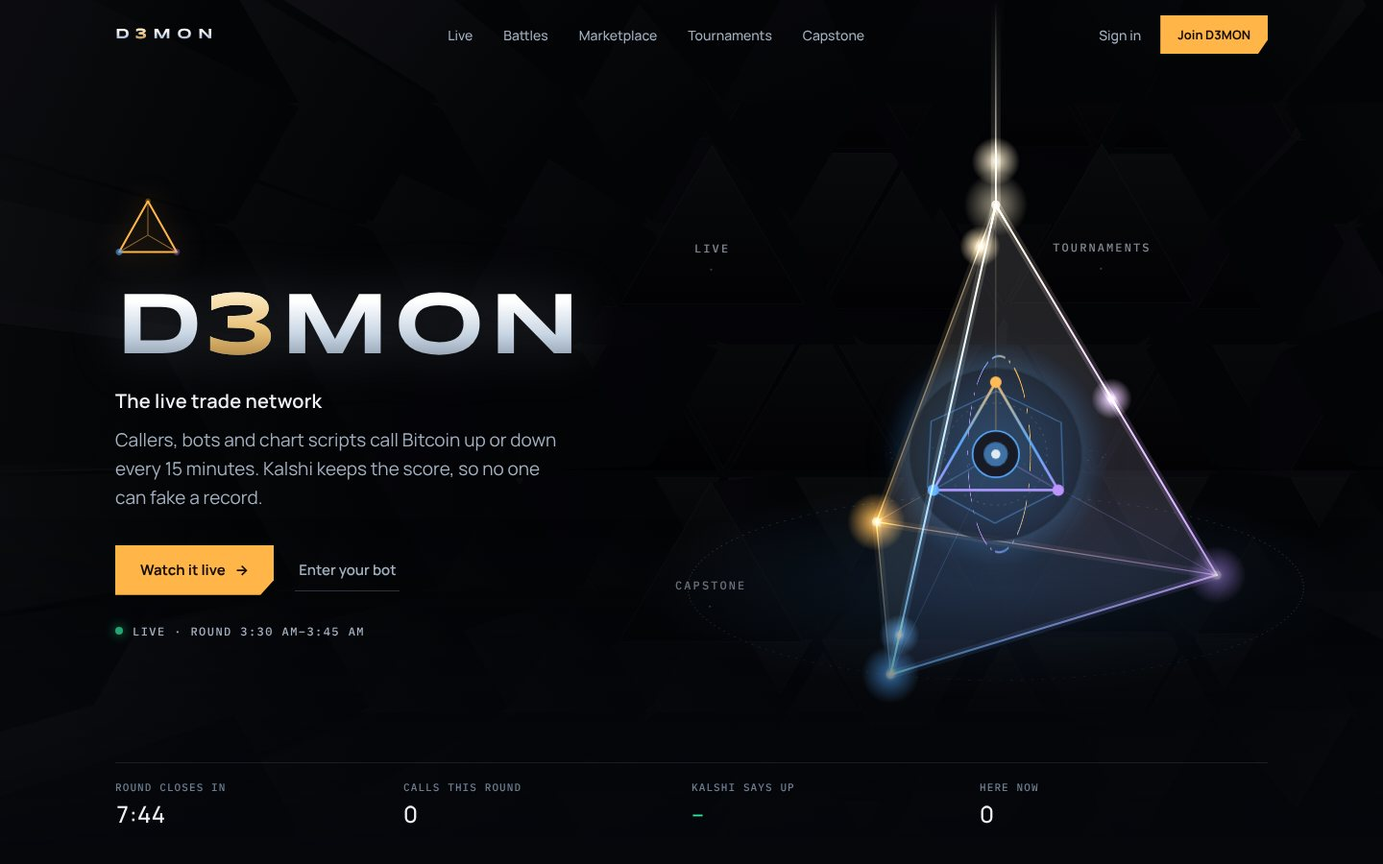
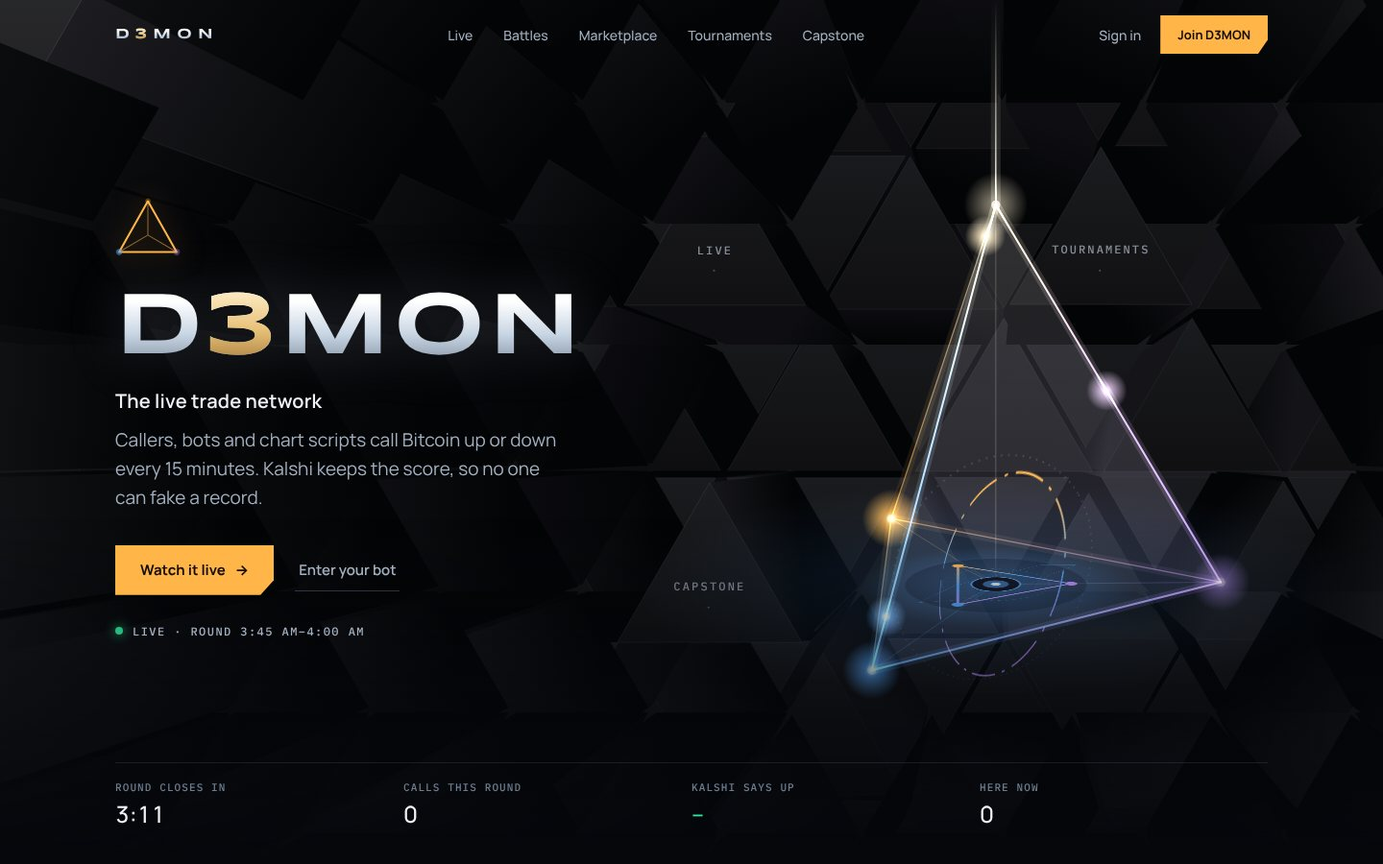
/next: bring back the bright interactive wall; the Flower of Life on the profile page
The wall of blocks is lit as it was before (it had been darkened to near black by a
misreading), dimming only a little toward the pyramid. The profile page, the one page
with a plain black background, now shows the site's faint Flower of Life like the others.

Claude-Session: https://claude.ai/code/session_014SvgFLPymcNibG8zpDTguD

diff --git a/public/js/next.js b/public/js/next.js
@@ -59,7 +59,7 @@
       if (!reduce) { sx += ((mx > -1e3 ? (mx - vx) * -0.04 : 0) - sx) * 0.05; sy += ((my > -1e3 ? (my - vy) * -0.04 : 0) - sy) * 0.05; }
       const intro = reduce ? 1 : Math.min(1, tt / 2.2), io = 1 - (1 - intro) ** 3; // on arrival the blocks slide forward out of the dark
       for (const t of tiles) {
-        const breathe = reduce ? 0 : 8 * Math.sin(tt * t.f + t.p);
+        const breathe = reduce ? 0 : 18 * Math.sin(tt * t.f + t.p);
         const d = Math.hypot(t.cx - mx, t.cy - my), near = Math.max(0, 1 - d / R), push = near * near * (3 - 2 * near) * 110;
         let ring = 0;
         for (const w of waves) { const rr = (tt - w.t) * 700, gap = Math.abs(Math.hypot(t.cx - w.x, t.cy - w.y) - rr); ring = Math.max(ring, Math.max(0, 1 - gap / 120) * (1 - (tt - w.t) / 2.6)); }
@@ -79,8 +79,8 @@
           if (nx * (mxm - t.cx) + ny * (mym - t.cy) < 0) { nx = -nx; ny = -ny; } // the side's outward direction
           if (nx * (ox - mxm) + ny * (oy - mym) <= 0) continue;
           const nl = Math.hypot(nx, ny), up = Math.max(0, -ny / nl);
-          const l = (9 + 13 * up + 8 * depth) * (1 - 0.6 * t.calm) * (0.3 + 0.7 * t.k);
-          const warm = t.near * 18;
+          const l = (16 + 22 * up + 14 * depth) * (1 - 0.6 * t.calm) * (0.7 + 0.3 * t.k);
+          const warm = t.near * 26;
           const grd = g.createLinearGradient(...front[m], ...back[m]);
           grd.addColorStop(0, `rgb(${Math.round(l + warm)},${Math.round(l + warm * 0.75)},${Math.round(l + 4 + warm * 0.35)})`); grd.addColorStop(1, "rgb(3,4,6)");
           g.fillStyle = grd;
@@ -88,11 +88,11 @@
         }
         // the face: matte black, a touch lighter at the top, a faint rim, gold where the pointer is near
         const top = Math.min(front[0][1], front[1][1], front[2][1]), bot = Math.max(front[0][1], front[1][1], front[2][1]);
-        const lf = Math.round((15 + 7 * depth) * (1 - 0.55 * t.calm) * (0.35 + 0.65 * t.k)), fg = g.createLinearGradient(0, top, 0, bot);
-        fg.addColorStop(0, `rgb(${lf + 3},${lf + 4},${lf + 6})`); fg.addColorStop(1, `rgb(${Math.max(0, lf - 4)},${Math.max(0, lf - 4)},${Math.max(0, lf - 2)})`);
+        const lf = Math.round((28 + 12 * depth) * (1 - 0.55 * t.calm) * (0.7 + 0.3 * t.k)), fg = g.createLinearGradient(0, top, 0, bot);
+        fg.addColorStop(0, `rgb(${lf + 5},${lf + 6},${lf + 9})`); fg.addColorStop(1, `rgb(${lf - 5},${lf - 5},${lf - 3})`);
         g.fillStyle = fg;
         g.beginPath(); g.moveTo(...front[0]); g.lineTo(...front[1]); g.lineTo(...front[2]); g.closePath(); g.fill();
-        g.strokeStyle = t.near > 0.05 ? `rgba(233,194,122,${(0.06 + 0.4 * t.near).toFixed(3)})` : `rgba(190,205,230,${((0.025 + 0.035 * depth) * (1 - 0.6 * t.calm)).toFixed(3)})`;
+        g.strokeStyle = t.near > 0.05 ? `rgba(233,194,122,${(0.06 + 0.4 * t.near).toFixed(3)})` : `rgba(190,205,230,${((0.06 + 0.08 * depth) * (1 - 0.6 * t.calm)).toFixed(3)})`;
         g.lineWidth = 1; g.stroke();
         t.front = front;
       }

diff --git a/public/css/world.css b/public/css/world.css
@@ -340,7 +340,8 @@ body[data-three="on"] .w-events{order:-1}
 /* ---------- the cinematic profile (/profile?e=<slug>, docs/world/BLUEPRINT.md section 7) ----------
    "I am NAME." in the kind's colour (--kc, set by profile.js), the generated emblem, corner brackets and HUD
    labels, the tagline in a glass card, then the record and the recent calls. */
-.w-prof{background:radial-gradient(120% 80% at 75% 35%,color-mix(in srgb,var(--kc,#4DA3FF) 22%,#05080c) 0%,#05080c 60%) fixed,#05080c}
+/* the profile keeps the site's Flower of Life (--fol, d3mon.css) faintly over its glow, like every other page */
+.w-prof{background:var(--fol) 0 0/52px 90px fixed,radial-gradient(120% 80% at 75% 35%,color-mix(in srgb,var(--kc,#4DA3FF) 22%,#05080c) 0%,#05080c 60%) fixed,#05080c}
 .p-main{max-width:1180px;margin:0 auto;padding:0 24px 60px}
 .p-hero{position:relative;min-height:calc(100vh - 80px);display:grid;align-items:center;grid-template-columns:minmax(0,1fr) minmax(0,1fr)}
 .p-emblem{grid-column:2;grid-row:1;justify-self:center;width:min(42vw,560px);aspect-ratio:1;opacity:.95;filter:drop-shadow(0 0 30px color-mix(in srgb,var(--kc,#4DA3FF) 35%,transparent))}

diff --git a/CLAUDE.md b/CLAUDE.md
@@ -121,7 +121,7 @@ npm run kalshi:check   # reads Kalshi's latest rounds and shows how each is scor
 - [ ] **New direction (owner, 2026-10-17): automatic, always-on tournaments**, hourly, daily, weekly and monthly at once, for opted-in bots and scripts, scored from Kalshi. Owner agreed: D3MON never trades, tournaments rank entrants (reverses "no leaderboard" for tournaments only), a "not financial advice" notice, opt-in per bot. The owner dropped the hosted HardSmoke show; battle code stays, unused, until the owner decides to remove it. Plan and build steps: [`docs/TOURNAMENTS.md`](docs/TOURNAMENTS.md). Step 1 done: the "Join tournaments" switch (`server/arena/tournaments.js`, `test/tournaments.test.js`). Step 2 done: joining D3MON without a battle (`registry.join`, `POST /api/v1/applications`). Step 3 done: standings (`GET /api/v1/tournaments`, `GET /api/v1/tournaments/:id`). Step 4 done: the `/tournaments` page and the `tournaments` feed topic. Step 5a done: saved final results (`tournament_final` lines, `Tournaments.finalizeDue`). Step 5b done: admin controls (remove a bot, pause all). **All 5 steps of the plan are built.**
   This simplifies the 3D Grand Hall into a live trading floor (see `docs/world/`).
 - [ ] **D3MON World (3D redesign):** planning in [`docs/world/`](docs/world/README.md). **Building since 2026-10-18:** `/world` (`public/world.html`, `js/world.js`, `css/world.css`) is the 2D version with the new top bar (Join D3MON, Menu, Admin, account, Quality) and the four places on live data; `GET /api/v1/rounds/:round/calls` feeds this round's calls. Device levels: Auto starts at Lite and drops to 2D for reduce motion, data saver, low memory, few cores, no WebGL or software WebGL; the choice is in `localStorage` `d3w.quality`. **3D outside done** (`public/js/world3d.js`, three.js 0.169.0 vendored in `public/vendor/` with its README and licence): loaded with a dynamic `import()` only when the level isn't 2D, so 2D never downloads it; scrolling Outside drives the opening: the overhead D3MON title, the triangle rising into the pyramid, the opening shot, the front-face stargate. **The skull, stargate dive and swarm-of-lights opening was tried and dropped (owner, 2026-10-18: "go back to that version"); it's in git history (`a9160b6`, `b029b77`) if wanted again.** The look follows the owner's concept board `docs/world/inspiration/05-grand-hall-concepts.webp`: **clear glass walls with panel seams, and inside them the trading floor**: a glass walkway ring with railings, a ring of green/red up/down ticks, the calls streaming into a bright core, the golden beam up to the capstone, and glass screens with charts (made-up candles for now, live data later). **No stars** (owner doesn't like them). Owner, 2026-10-18 (later the same day): **random light beams** rising in the dark with pulses, and **comets** (random sizes, glowing trails) on tilted orbits around the pyramid, in the three colours and white; the floor is **the main page's own Flower of Life** (`--fol` from `d3mon.css`, same tile size from overhead) and forms outward from the pyramid on arrival; the glow around the pyramid fades out with no edge; **the upright stargate was removed** (owner: it had no use; it was tried on the front face and then in the centre); the scroll now ends by gliding through the front glass down to the bright core, with a burst of light. **The comets spiral in to the golden beam, ride it up through the capstone and out along a laser into the sky**; each one sends a pulse up the laser, and the sky flashes faintly as it goes high (owner, 2026-10-18). **Inside, from the 10118 video** (owner: "I like everything about this", leaving out the booths with people and the star shapes): two rings of glass chart screens, a glass ramp spiralling up around the beams with six hexagon bot pods, floating code and maths for the chart scripts near the top, the people online as little lights in the stands, and a violet beam beside the golden one. The scroll goes through the front glass, then glides up beside the ramp to the code near the top; up close the core's glow, the beams and the comets dim and shrink so they don't fill the screen. Later the same day (owner): **the comets fly into the three corners of the triangle (taking that corner's colour), run along the floor to the centre, then climb the beam**; the helix is one clean, wider glass ramp (no rails or ties) with lights walking up it, the screens are bigger and kept inside it, and **it ends level at the VIP Room**, a round gold glass room under the capstone with the featured callers as three gold lights; **the scroll ends looking at the VIP Room**. Behind the 2D sections below, the 3D dims to 12% with a blur so they read cleanly. Then (owner): a tasteful mix of comets, fewer in all: about 40% just circle the pyramid on slow tilted orbits (the circling the owner liked) and the rest circle in to a corner, run the floor and climb the beam; fewer random beams. **The VIP Room is the crystal capstone: the whole tip of the pyramid** above a gold landing, built from the pyramid's own corners so it's straight and lines up, glowing brighter toward the top, with the featured callers as three gold lights; no screens up there (owner: cleaner). **The helix levels off and runs onto a full landing ring** round the foot of the crystal, in the helix's own blue right through (owner, 2026-10-19). Fewer, bigger screens below (4 + 3 charts, 1 code, 1 maths). **At the top of the helix the camera rides the centre beam up under the crystal, then pulls out through the front glass: the scroll ends on a hero view of the whole crystal tip.** Screens face the camera's path and text is one-sided, so nothing reads mirrored. **The owner's vision for navigation (2026-10-18): move through the whole site like this, gliding along structures (the helix, the beam as a lift) from place to place, rather than jumping between pages. Keep it in mind for every place we build.** No glow pass in this version (the add-ons stay vendored in `public/vendor/three-addons-0.169.0/` for later); the camera never spins or rolls, and reduce motion cuts between shots; Auto drops to 2D if the first seconds run slower than about 22 fps (`sessionStorage` `d3w.slow`). **The Grand Hall goes live (2026-10-18, BLUEPRINT step 4 begun):** remember what it's for (owner): the everyday trading room where everyone trades daily, with the tournaments, the round clock, every call live, special-event battles, the D3MON Discord as its chat and voice, and video streams on the walls. Its four live screens form a curved wall facing the way in (the camera stops in front of them): **last round** (Kalshi's result, right and wrong, the best paper result), **this round** (clock to the second, each call with its price, callers sealed), **tournament** (top 6, "not financial advice") and **D3MON Discord** (kept for the chat and voice, "coming soon"). The ring of ticks is the round clock (the last 72 rounds, green up, red down, the round now in white) and the 9 spokes are this round's calls (the entrant's colour at the end, the line green or red by direction, white while sealed). `world.js` hands the data over with `scene3d.hall(...)` after each load and reloads every 20 s. **Look around (owner, 2026-10-19):** the camera now holds at each level of screens (the hall's live screens at scroll 0.70–0.77, the level above at 0.83–0.89); while it's held, ◀ ▶ buttons (and the arrow keys, and a sideways swipe) turn that level's ring of screens one screen at a time, so each comes round to face the visitor. The camera never turns. Live screens are solid (normal blending) so the beam behind doesn't wash out the text. **Three levels now (owner, 2026-10-19):** level 1 the hall's live screens (0.70–0.77), level 2 (0.81–0.86) a turning ring of a chart, the **top chart scripts** (from the tournament), **bring your script** and a script's code, and **level 3 at the very top (0.89–0.93) is one screen that comes up centred: "Where to next?"** (VIP Room, which glides the scroll up to the crystal; Tournaments; every bot, script and caller; My bots; Join D3MON), picked by pointing and clicking on the screen (a raycast finds the line) or with the up/down keys and Enter. **Dragging with the mouse turns a level's ring** and it settles on the nearest screen when let go; ◀ ▶, the arrow keys and swipes still work. After the menu the camera goes through the glass into the beam lift, then out to the crystal tip. **The hall's circle is complete (owner, 2026-10-19: "do what you think is best"):** ten screens all the way round, turning freely: last round, this round, tournament, D3MON Discord, plus **two spotlights** (each cycles through the bots and scripts every 12 s: maker, today's record, this round's call and price, last round's paper result), **live event** (a special-event battle while it's on, with "its live stream plays here" kept for streams, or the next event), **Kalshi now** (Up and Down prices this round from the new public `GET /api/v1/market`, "the crowd gives Up a 62% chance"), **this hour** (the hourly tournament) and **callers** (how many called this round, sealed, and last round's right and wrong). `world.js` fetches the market, battles and hourly standings only when the 3D scene is running. **The hall reacts to what really happens (owner, 2026-10-19):** every new call (seen in the 20 s reload) flies in as a bigger, quicker comet in its entrant's colour (white while a caller's is sealed) to its own corner of the triangle (callers, bots, scripts), runs the floor and climbs the beam; on opening, the last few calls fly in too. When a round's result arrives, a ring of green (up) or red (down) draws in to the core, then one pulse of that colour rides up the centre beam and out of the capstone along the laser (owner, 2026-10-19: clean, nothing running outward); a result already in when the page opened isn't replayed. **The main page's Live Trade Cortex emblem is at the heart of the pyramid** (owner, 2026-10-19): the same drawing as `.sigil.gim` in `index.html`, layer for layer, with the same movements as `d3mon.css` (rings tumbling 14 s round X, 11 s round Y, 8 s back round X, each spinning in its plane 30 s, 16 s back, 10 s; the inner dashed ring 22 s back, the triangle 40 s, the heart pulsing 2.4 s). It lies flat on the floor at the foot of the beam (owner, 2026-10-19: so from the top it stays as it is on the main page), facing up with its triangle's corners toward the pyramid's, its lines glowing, its rings tumbling up out of the floor and the beam rising from its heart; it's the main page's size over the flat triangle and settles just inside the ring of ticks. **Calmer and fuller (owner, 2026-10-19):** the middle level is a full circle of eight screens like the hall's (chart, top chart scripts, scripts this round, scripts last round, bring your script, code, another chart, maths); the ambient comets and edge dots are fewer, smaller and dimmer, and each ambient comet rests 2–8 s between flights, while real calls stay big and bright. The little lights in the stands (the people online) were removed too (owner: they looked messy). The hexagon pods on the helix were removed (owner: cleaner); stops for navigation can go on the helix later, once the places they lead to are rooms in the world. **The lock moment** (BLUEPRINT section 5, 2026-10-19): in a round's last 10 s the hall dims and the This round screen counts down big ("Calls close"); at the close the emblem and core flash, and for 6 s the spokes hold the round that just closed with its sealed calls flipped to green or red; `world.js` reloads 1.5 s after each close for the revealed calls and 11 s later for Kalshi's result, which brings the pulse up the beam. Reduce motion gets the flip without the dimming or flash. No sound yet. `?fps` also exposes the scene as `window.__w3d` for testing by hand. Next for the hall: the D3MON Discord chat, video streams on the walls. Read it before any `/world` work; open decisions are in `docs/world/QUESTIONS.md`. **The site map** (`docs/world/SITEMAP.md`, 2026-10-18) lists every page and section, who uses it and where it goes (Outside, Grand Hall = tournaments, Helix, Trade Floor, My D3MON, one admin hub); follow it for the tidy-up
-- [ ] **New direction (owner, 2026-10-20): no more "everything in the triangle".** The scroll-through-the-pyramid world is too much (camera flights, rings of screens, the floating menu). Build **a clean website in the new style** (glass panels, chrome D3MON with the gold 3, Syncopate, Manrope, IBM Plex Mono) organised by **its main parts**: Live (this round, calls, chat), Battles (HardSmoke's events), Tournaments, Marketplace (profiles, "Get this bot"), Capstone (VIP sessions) and My D3MON. Each part can have its own feel within one style, joined by **good transitions** (sections sliding or fading in, cards expanding into pages), with **3D only as a highlight** where it pays off (e.g. the front page, a battle going live). The pyramid can appear but **doesn't have to tie everything together**. **Clarified (owner, 2026-10-20): the owner likes the triangle's look and its symbolism** (three corners: callers, bots, chart scripts, meeting in one place); **what goes is the helix with all the screens inside the pyramid.** Keep the triangle as the brand symbol (e.g. the particle triangle on `/next`, a clean glass pyramid without the inside as a hero), just not as the site's navigation Don't build more of the 3D world (`world3d.js`); keep it in git. Ask the owner which part to start with. **`/next` finished in the hero's style (2026-10-20):** every part uses the chrome Syncopate titles, a mono kicker with a small three-colour triangle, one amber button with the cut corner (gold for Capstone), underlined links for the rest, and cards with the same cut corner; a Menu button on phones; an honest empty state when no battle is announced. **No particles** (owner, 2026-10-20: "the dots make it look messy"; "clean and luxurious"). **The hero's wall** (owner liked Rubric's big black geometric tiles moving with the mouse, and asked for something of D3MON's own): big plain, dark black triangular blocks with deep sides (kept dark and calm, owner 2026-10-20: "keep them to the darker, more plain black"), whose depth shows mostly near the pointer, in perspective, forming a tunnel that opens around the glass pyramid; each breathes slowly, the ones near the pointer push out on a spring (edges catching gold), a click sends a push rippling through, and blocks behind the words stay back and dark. **Three blocks are shortcuts** (wide screens only): Live, Tournaments and Capstone, engraved on the block, standing a little forward, gold with an arrow on hover; a click goes through the page transition (`LINKS` in `js/next.js`, placed where they appear on screen, clear of the words and the pyramid). **The glass pyramid is drawn live** (owner, 2026-10-20: the still picture "just sits there"; "make it rotate"; keep the main page's rotating emblem): a three-sided glass pyramid turns slowly (40 s a turn) on two canvases (`pyramid()` in `js/next.js`), corners amber (callers), blue (bots) and violet (chart scripts) with a gold tip, each side tinted between its corners with a sheen as it turns to the light, lights rising from each corner up its edge to the tip and pulses up the beam; **the main page's Live Trade Cortex emblem (`.sigil.gim`) lies flat on the pyramid's floor** (owner, 2026-10-20), seen at the pyramid's tilt, its triangle pointing at the pyramid's corners and turning with them, small enough that its outer ring sits inside the floor (owner: the rings stay within the triangle), its rings keeping the main page's movements and tumbling within the glass; it sits between the far canvas and the near one, with no glow filter (that would flatten the rings). **The sacred geometry is back** (owner, 2026-10-20: "I miss the sacred geometry"; "more interactive and 3D, hints here and there"): the original site's Flower of Life on a fixed canvas behind the sections (`geometry()`), faint everywhere, lit in the three colours around the pointer like a lamp (it drifts by itself on touch screens or after 4 s), a click sends a ring of light through it, and it drifts with the scroll. **Hints of 3D** (`touches()`, pointer devices only): cards lean toward the pointer with a soft glare, the amber buttons are drawn to it, section titles catch a chrome shine as they arrive and the kicker triangles turn over. Reduce motion keeps all of it still. Pictures and a clip for the owner's image and video tools are in `docs/next/inspiration/`. Drag to spin it (it eases back), the pointer tilts it, hovering quickens it and the emblem (like the main page's hover), a click sends a pulse up the beam. The wall's tunnel opens on it (`stageAt`) and darkens toward it. The old picture (with its stars) is gone. The small triangle above the title draws itself in and its corners light in turn (callers, bots, chart scripts). The Capstone's mark is a fine gold triangle that draws itself. **Moving between pages** (`css/transition.css`, `js/transition.js`, in every page's head): a fine gold triangle draws itself where you click, then the next page opens out of it with a hairline gold edge while the old page sinks and dims (cross-document view transitions; browsers without them and reduce motion just change page). Pictures in `docs/next/`. Not merged; no live change until the owner says so
+- [ ] **New direction (owner, 2026-10-20): no more "everything in the triangle".** The scroll-through-the-pyramid world is too much (camera flights, rings of screens, the floating menu). Build **a clean website in the new style** (glass panels, chrome D3MON with the gold 3, Syncopate, Manrope, IBM Plex Mono) organised by **its main parts**: Live (this round, calls, chat), Battles (HardSmoke's events), Tournaments, Marketplace (profiles, "Get this bot"), Capstone (VIP sessions) and My D3MON. Each part can have its own feel within one style, joined by **good transitions** (sections sliding or fading in, cards expanding into pages), with **3D only as a highlight** where it pays off (e.g. the front page, a battle going live). The pyramid can appear but **doesn't have to tie everything together**. **Clarified (owner, 2026-10-20): the owner likes the triangle's look and its symbolism** (three corners: callers, bots, chart scripts, meeting in one place); **what goes is the helix with all the screens inside the pyramid.** Keep the triangle as the brand symbol (e.g. the particle triangle on `/next`, a clean glass pyramid without the inside as a hero), just not as the site's navigation Don't build more of the 3D world (`world3d.js`); keep it in git. Ask the owner which part to start with. **`/next` finished in the hero's style (2026-10-20):** every part uses the chrome Syncopate titles, a mono kicker with a small three-colour triangle, one amber button with the cut corner (gold for Capstone), underlined links for the rest, and cards with the same cut corner; a Menu button on phones; an honest empty state when no battle is announced. **No particles** (owner, 2026-10-20: "the dots make it look messy"; "clean and luxurious"). **The hero's wall** (owner liked Rubric's big black geometric tiles moving with the mouse, and asked for something of D3MON's own): big matte-black triangular blocks with deep sides, lit enough to read (owner, 2026-10-20: keep this interactive wall as it is; an attempt to darken it to plain black was a misreading and was undone), dimming only a little toward the pyramid, in perspective, forming a tunnel that opens around the glass pyramid; each breathes slowly, the ones near the pointer push out on a spring (edges catching gold), a click sends a push rippling through, and blocks behind the words stay back and dark. **Three blocks are shortcuts** (wide screens only): Live, Tournaments and Capstone, engraved on the block, standing a little forward, gold with an arrow on hover; a click goes through the page transition (`LINKS` in `js/next.js`, placed where they appear on screen, clear of the words and the pyramid). **The glass pyramid is drawn live** (owner, 2026-10-20: the still picture "just sits there"; "make it rotate"; keep the main page's rotating emblem): a three-sided glass pyramid turns slowly (40 s a turn) on two canvases (`pyramid()` in `js/next.js`), corners amber (callers), blue (bots) and violet (chart scripts) with a gold tip, each side tinted between its corners with a sheen as it turns to the light, lights rising from each corner up its edge to the tip and pulses up the beam; **the main page's Live Trade Cortex emblem (`.sigil.gim`) lies flat on the pyramid's floor** (owner, 2026-10-20), seen at the pyramid's tilt, its triangle pointing at the pyramid's corners and turning with them, small enough that its outer ring sits inside the floor (owner: the rings stay within the triangle), its rings keeping the main page's movements and tumbling within the glass; it sits between the far canvas and the near one, with no glow filter (that would flatten the rings). The geometric pattern goes only where a background is plain black: the sections under the hero, and the profile page (`.w-prof` in `world.css`); the other pages already show it through `d3mon.css`. **The sacred geometry is back** (owner, 2026-10-20: "I miss the sacred geometry"; "more interactive and 3D, hints here and there"): the original site's Flower of Life on a fixed canvas behind the sections (`geometry()`), faint everywhere, lit in the three colours around the pointer like a lamp (it drifts by itself on touch screens or after 4 s), a click sends a ring of light through it, and it drifts with the scroll. **Hints of 3D** (`touches()`, pointer devices only): cards lean toward the pointer with a soft glare, the amber buttons are drawn to it, section titles catch a chrome shine as they arrive and the kicker triangles turn over. Reduce motion keeps all of it still. Pictures and a clip for the owner's image and video tools are in `docs/next/inspiration/`. Drag to spin it (it eases back), the pointer tilts it, hovering quickens it and the emblem (like the main page's hover), a click sends a pulse up the beam. The wall's tunnel opens on it (`stageAt`) and darkens toward it. The old picture (with its stars) is gone. The small triangle above the title draws itself in and its corners light in turn (callers, bots, chart scripts). The Capstone's mark is a fine gold triangle that draws itself. **Moving between pages** (`css/transition.css`, `js/transition.js`, in every page's head): a fine gold triangle draws itself where you click, then the next page opens out of it with a hairline gold edge while the old page sinks and dims (cross-document view transitions; browsers without them and reduce motion just change page). Pictures in `docs/next/`. Not merged; no live change until the owner says so
 - [ ] **Who the users are (owner, 2026-10-19): read [`docs/world/USERS.md`](docs/world/USERS.md) before designing any page.** Owners sell their callers, bots and scripts (profiles are shop windows; D3MON earns a commission); the community hangs out to chat, talk, listen to music, stream and trade together; **HardSmoke's special events (bot battles) are a major source of traffic** (so the battle code is used again); capstone sessions are scheduled and paid; money from ads, commissions and capstone access
 - [ ] **Built on the branch overnight (2026-10-19, owner's "yes, all five"), not merged yet:** (1) **HardSmoke's battles**: a battle's `streams` (admins; YouTube, Twitch, Kick, Discord, https only), the next battle on the front page with Apply to battle (`/apply?battle=<id>`), and the hall's event card (lineup, streams, standings). (2) **Results and badges**: `GET /battles/:id/results` (`server/arena/results.js`), ranked like the tournaments (Kalshi-settled rounds and the entrant's own battle calls only), final when every round is settled or 30 minutes after the end; winners (rank 1, at least one correct) get a `battle_winner` badge in `GET /entrants/:slug`. (3) **The hangout**: `GET /presence` (how many have the site open, counts only), Here now and Open the chat in the live bar, the chat's latest three in the hall. (4) **The profile** `/profile?e=<slug>` (`public/profile.html`, `js/profile.js`): the shop window, with `PUT /entrants/:id/profile` (tagline, shop link with D3MON's referral code, stream link; owner writes, admins can only clear) edited on `/my`. (5) **Capstone sessions** in `vip.js`: `GET/POST /vip/sessions`, `DELETE /vip/sessions/:id` (admins), scheduled on `/vip`, the next one on the front page. Tests: `test/events.test.js`
 - [ ] **The new look (concept v2, 2026-10-19): start here for the redesign.** [`docs/world/concept-v2/README.md`](docs/world/concept-v2/README.md) has the four stills, what the owner wants, how to render them, the 7-step build plan and the open questions. **No live changes or pull request for the redesign until the owner says "go".** Stars in the sky are fine; five-point star shapes are not. **Round 2 (2026-10-19):** v3 stills after a check with the UI UX Pro Max skill (`.claude/skills/ui-ux-pro-max/`, use it for design work), phone stills, the cinematic profile still (one triangle emblem, never a star or hexagram), and [`FUNCTIONS.md`](docs/world/concept-v2/FUNCTIONS.md): what each part must do against `/api/v1`, and what's missing. **Build step 1 (film-style lighting) is done for Full quality only**: studio reflections and a colour grade in `world3d.js`; a glow pass hazed the sky and was dropped. The owner said "go" for that pull request (merged as #55). **Step 2 (the hero) is built on the branch**: the opening plays on arrival, the scroll runs from the hero shot (`OPEN = 0.56` in `world3d.js`), and a live bar on the front page. The owner also allowed changes to the Grand Hall's middle, the helix, the screen layout and the scroll layout as the steps need. The profile's tagline needs a new entrant field: ask first
